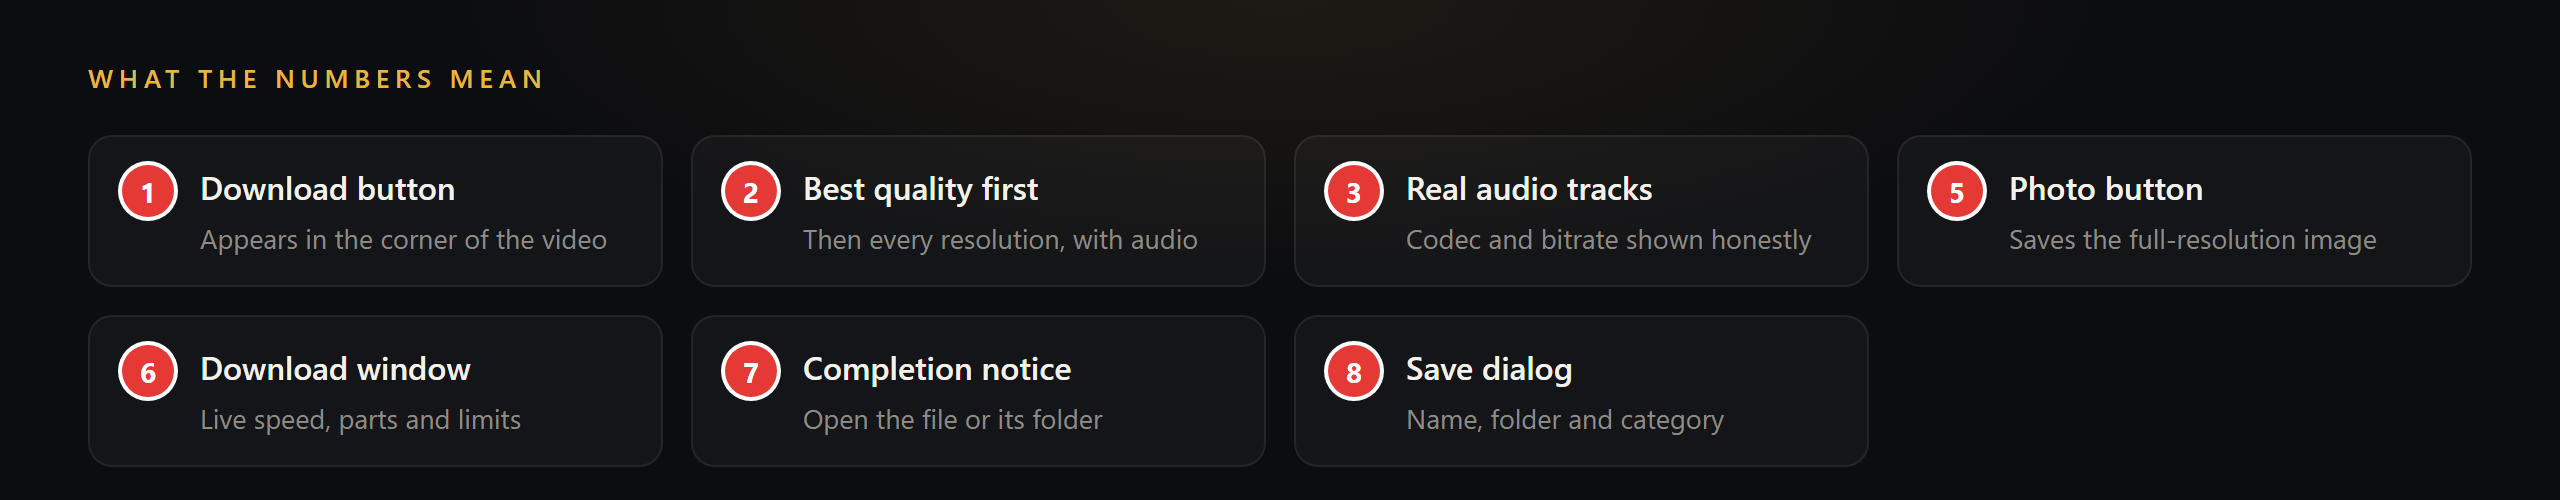
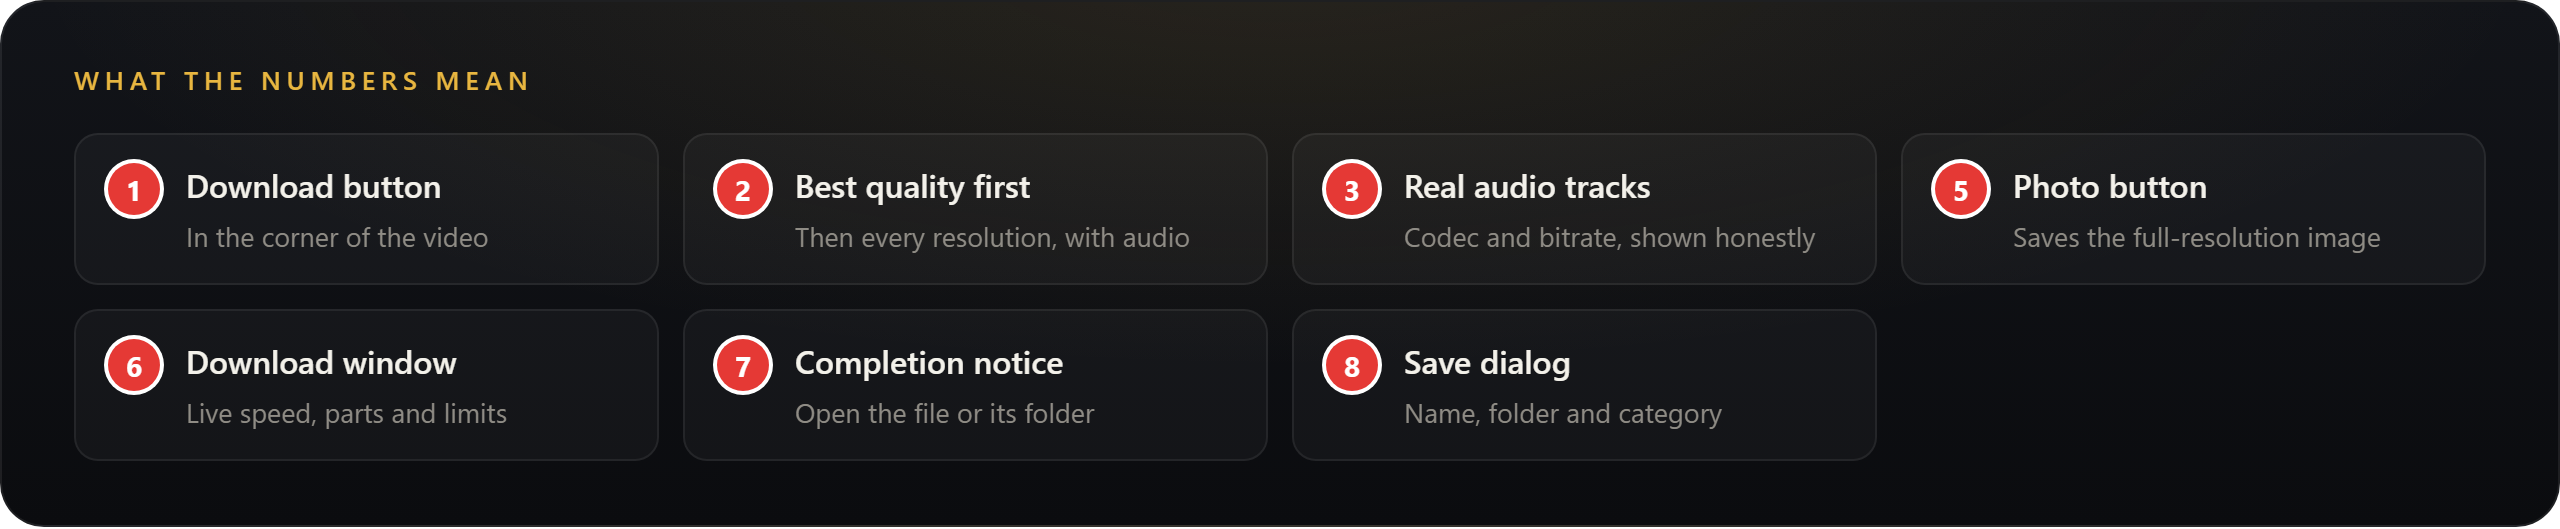
README: card design for features, stats, comparison and architecture

diff --git a/README.md b/README.md
@@ -1,12 +1,12 @@
 <div align="center">
 
-<img src="docs/images/banner.png" alt="Nee Download Manager — fast, free and open-source download manager for Windows" width="100%">
+<img src="docs/images/hero.png" alt="Nee Download Manager — fast, free and open-source download manager for Windows" width="100%">
 
-# Nee Download Manager (NDM)
+<br><br>
 
-**A fast, free and open-source download manager for Windows — multi-connection downloads,
-one-click video / audio / photo saving from almost any site, torrents and a real scheduler.
-No ads, no trial, no account.**
+<a href="https://github.com/DevnetraConsultancy/nee-download-manager/releases/latest"><img src="docs/images/button.png" alt="Download NDM 1.0.5 for Windows" height="56"></a>
+
+<br><br>
 
 [![Latest release](https://img.shields.io/github/v/release/DevnetraConsultancy/nee-download-manager?label=release&color=E8B640&style=flat-square)](https://github.com/DevnetraConsultancy/nee-download-manager/releases/latest)
 [![Downloads](https://img.shields.io/github/downloads/DevnetraConsultancy/nee-download-manager/total?color=E8B640&style=flat-square)](https://github.com/DevnetraConsultancy/nee-download-manager/releases)
@@ -16,13 +16,13 @@ No ads, no trial, no account.**
 [![C++17](https://img.shields.io/badge/C%2B%2B17-Win32%20native-00599C?style=flat-square&logo=cplusplus&logoColor=white)](#build-from-source)
 [![Stars](https://img.shields.io/github/stars/DevnetraConsultancy/nee-download-manager?style=flat-square&color=E8B640)](https://github.com/DevnetraConsultancy/nee-download-manager/stargazers)
 
-[**Download NDM 1.0.5**](https://github.com/DevnetraConsultancy/nee-download-manager/releases/latest) ·
-[Features](#features) · [Screenshots](#screenshots) · [Compared with IDM](#compared-with-idm) ·
-[Install](#install) · [Build](#build-from-source) · [FAQ](#faq)
+<sub>[Features](#features) &nbsp;·&nbsp; [Screenshots](#screenshots) &nbsp;·&nbsp; [Compared with IDM](#compared-with-idm) &nbsp;·&nbsp; [Install](#install) &nbsp;·&nbsp; [Build](#build-from-source) &nbsp;·&nbsp; [FAQ](#faq)</sub>
+
+<br>
+
+<img src="docs/images/stats.png" alt="32 connections per file · 1000+ video and audio sites · 0 ads, trials or telemetry · 450+ automated checks per push" width="100%">
 
 </div>
-
----
 
 ## Why NDM
 
@@ -37,6 +37,11 @@ list shows the actual codec and bitrate of each track, sizes marked `~` are esti
 and unknown sizes stay blank. Nothing is invented to look good.
 
 ## Features
+
+<img src="docs/images/features.png" alt="Features: fast safe downloads, video audio photos, browser integration, full control, real scheduler, torrents built in" width="100%">
+
+<details>
+<summary><b>Full feature list</b></summary>
 
 <table>
 <tr>
@@ -103,6 +108,8 @@ and unknown sizes stay blank. Nothing is invented to look good.
 </tr>
 </table>
 
+</details>
+
 ## Screenshots
 
 > Site content behind NDM's controls is blurred on purpose. The red numbers point at NDM's own controls.
@@ -134,6 +141,11 @@ and unknown sizes stay blank. Nothing is invented to look good.
 Internet Download Manager is the best-known download manager on Windows. Here is a
 factual, feature-by-feature comparison. If you spot an error, please open an issue.
 
+<img src="docs/images/compare.png" alt="Feature comparison of NDM and IDM" width="100%">
+
+<details>
+<summary><b>Same table as text</b></summary>
+
 | | NDM | IDM |
 |---|:---:|:---:|
 | Price | <img src="docs/icons/check.svg" width="16"> Free | Paid licence (trial first) |
@@ -154,6 +166,8 @@ factual, feature-by-feature comparison. If you spot an error, please open an iss
 | Signed installer | <img src="docs/icons/x.svg" width="16"> Not yet | <img src="docs/icons/check.svg" width="16"> |
 | Firefox add-on that stays installed | <img src="docs/icons/minus.svg" width="16"> Temporary for now | <img src="docs/icons/check.svg" width="16"> |
 | Site grabber (crawl a whole site) | <img src="docs/icons/minus.svg" width="16"> Page links only | <img src="docs/icons/check.svg" width="16"> |
+
+</details>
 
 <sub>IDM and Internet Download Manager are trademarks of Tonec Inc. NDM is an independent
 project and is not affiliated with, endorsed by or derived from Tonec Inc. or IDM.
@@ -235,12 +249,7 @@ More than 450 automated checks run on every push ([CI](.github/workflows/ci.yml)
 
 ## How it works
 
-```
-Browser extension ──native messaging──> NDMMsgHost.exe ──per-user pipe──> NDMan.exe
-                                                                          ├─ WinHTTP segmented engine
-                                                                          ├─ yt-dlp + FFmpeg (video / audio)
-                                                                          └─ aria2 (torrents, local JSON-RPC)
-```
+<img src="docs/images/arch.png" alt="Browser extension talks to NDMMsgHost.exe over native messaging, which talks to NDMan.exe over a per-user pipe; NDMan runs the WinHTTP engine, yt-dlp + FFmpeg and aria2" width="100%">
 
 ```
 src/
